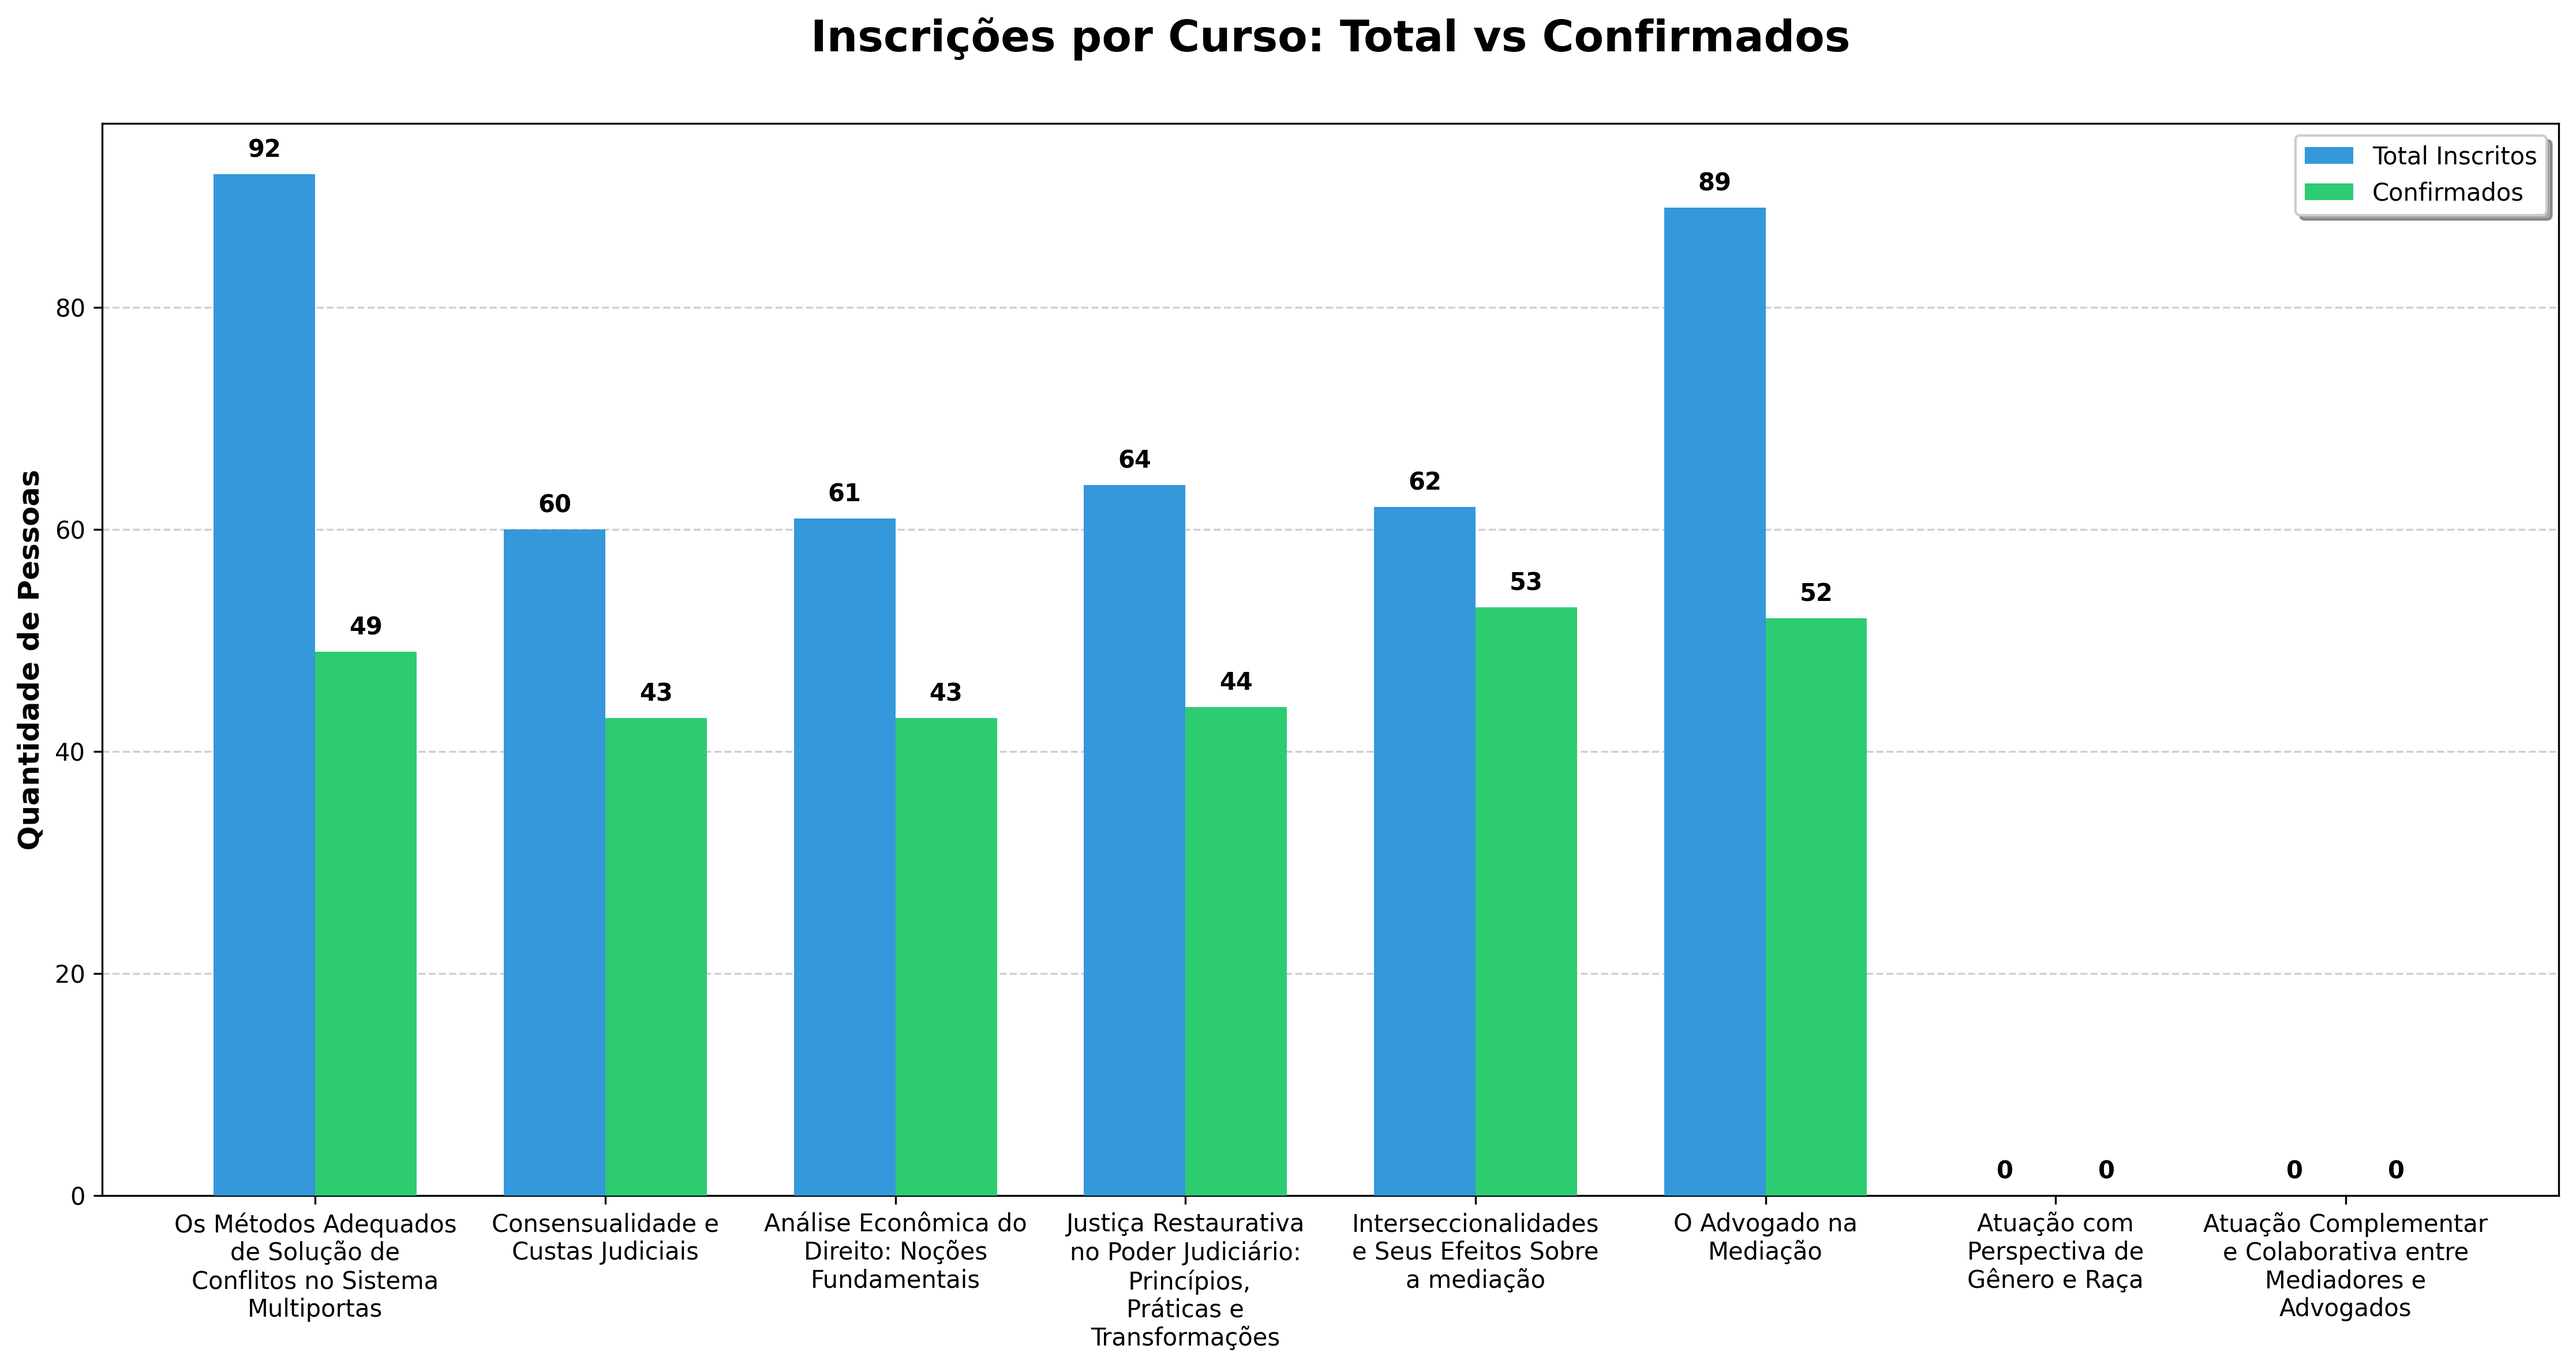
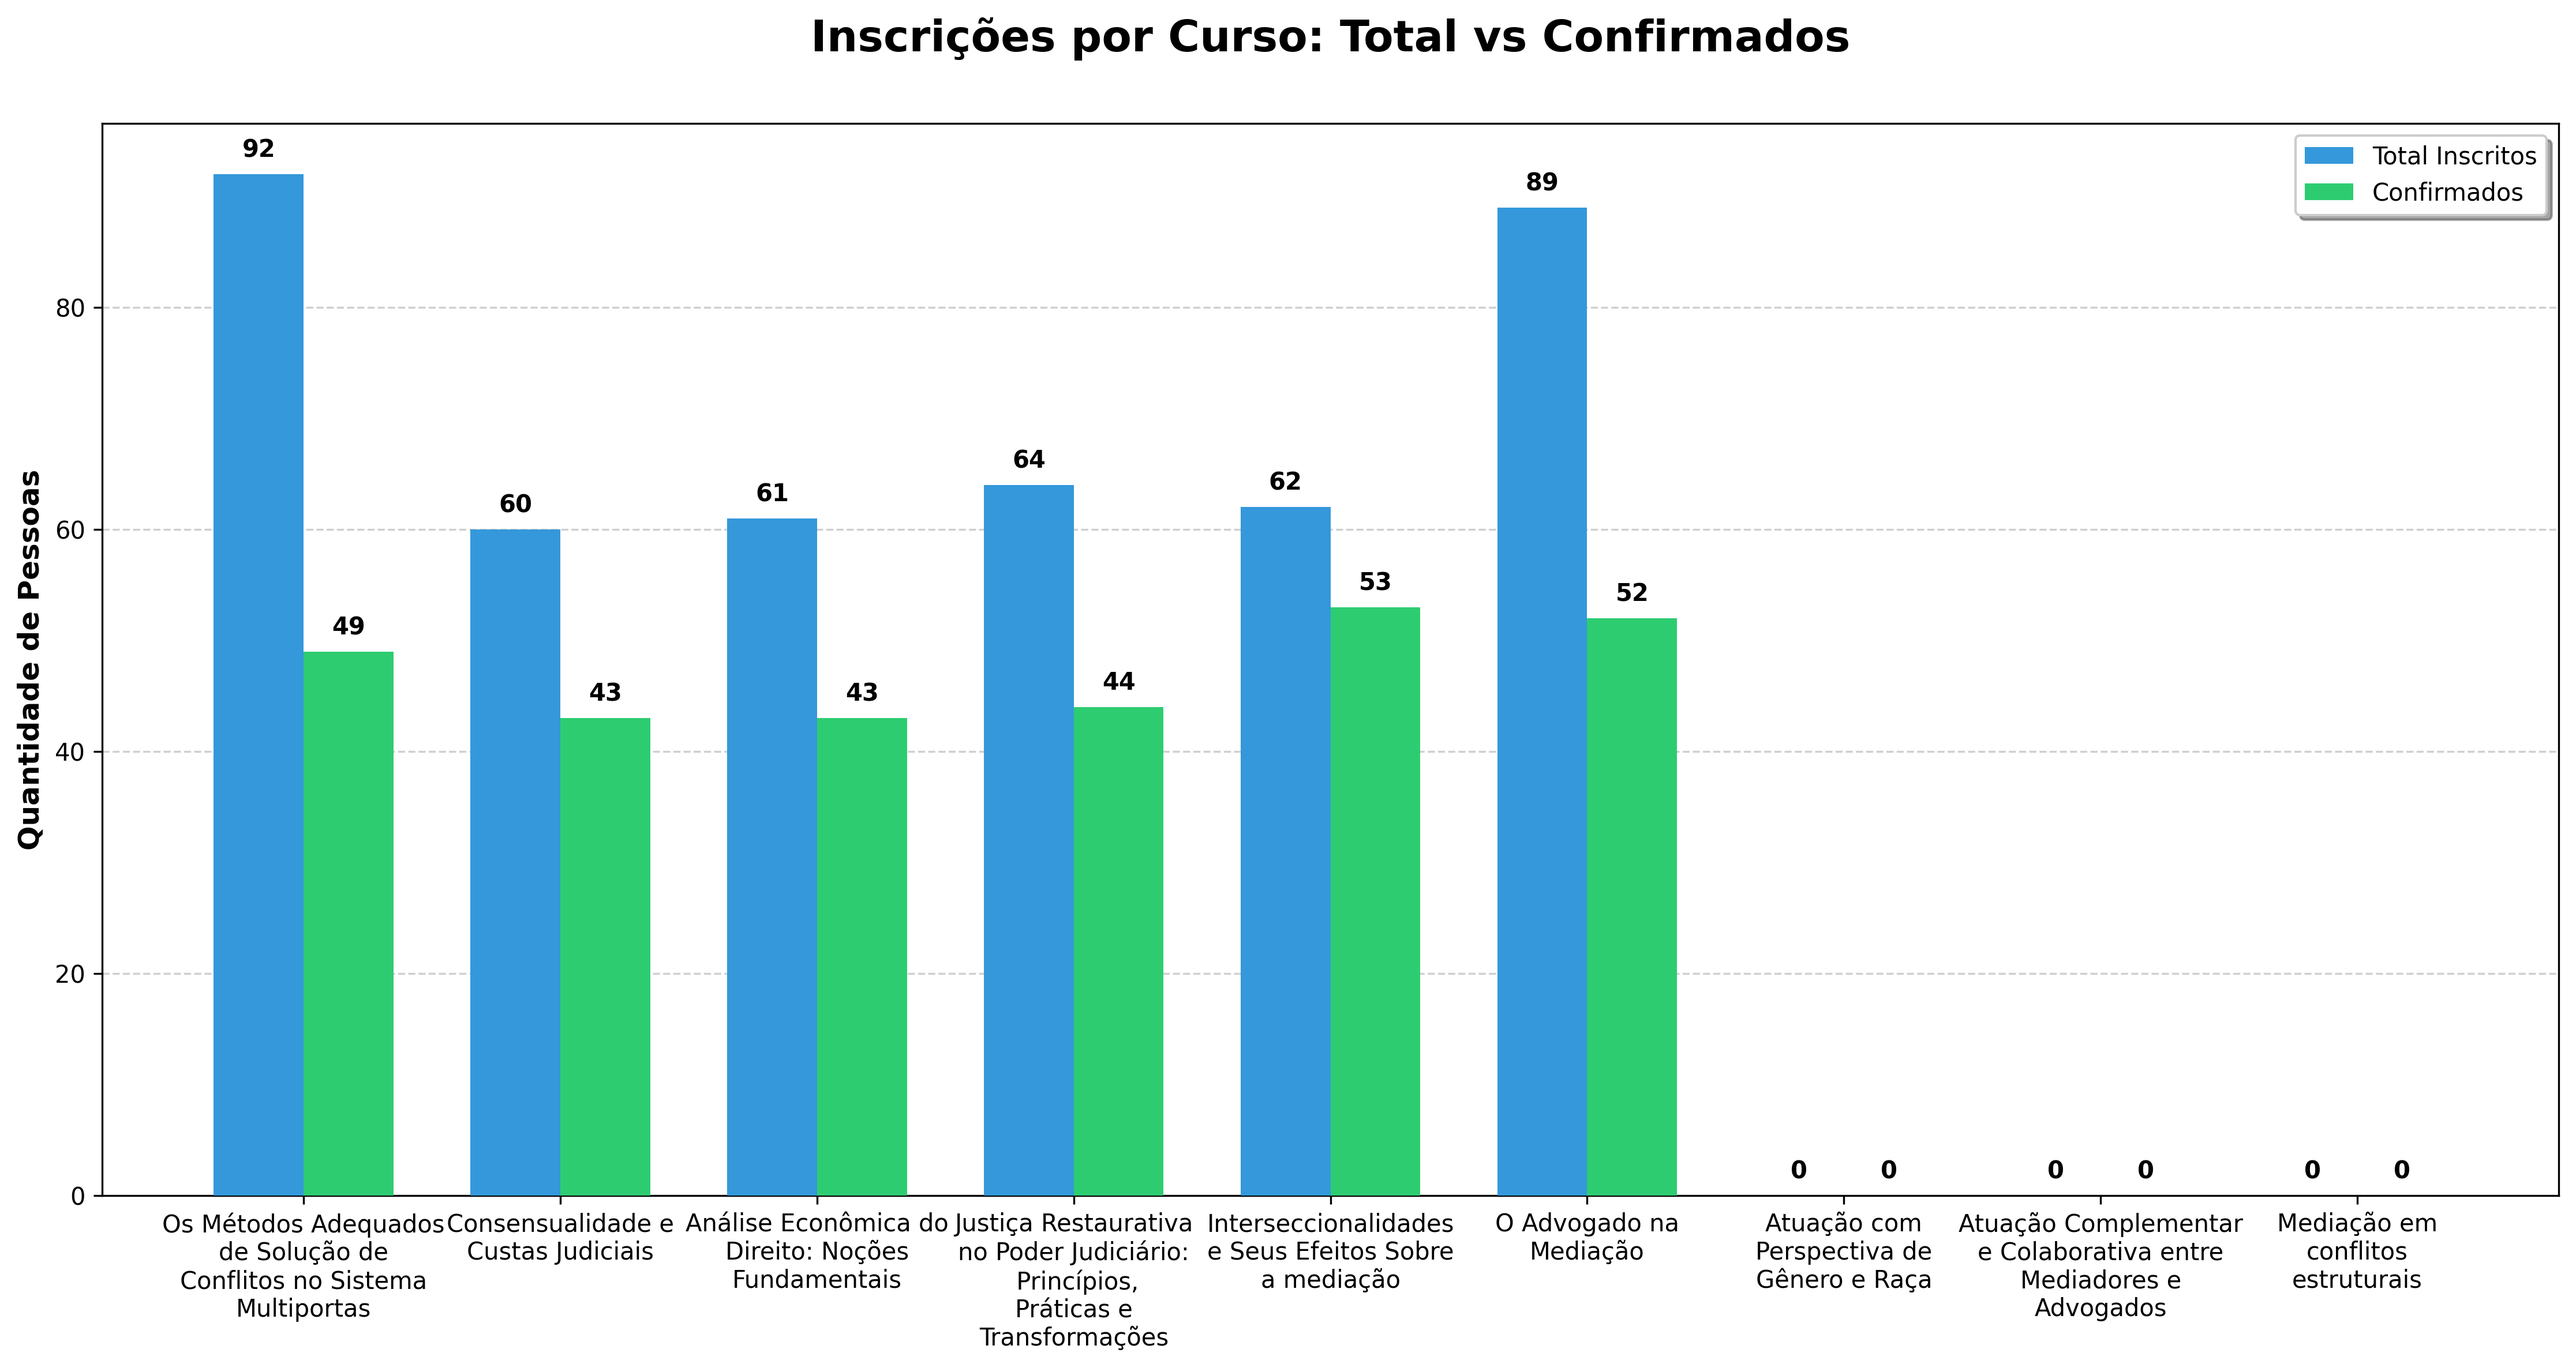
Atualização do codigo analise_inscricoes e dos outputs depois da insercao de mais um curso

Changed region(s): [[0.0623, 0.0936, 0.9653, 0.9983]]

diff --git a/scripts/analise_inscricoes.py b/scripts/analise_inscricoes.py
@@ -28,7 +28,7 @@ df_dados['data'] = pd.to_datetime(df_dados['data'])
 df_final = pd.merge(df_dados, df_referencia, on='id', how='left')
 
 # ADICIONADO O 'E1' NA LISTA ABAIXO:
-ids_para_grafico = ['C7', 'C8', 'E1'] 
+ids_para_grafico = ['C7', 'C8', 'E1', 'C9'] 
 
 df_filtrado = df_final[df_final['id'].isin(ids_para_grafico)].sort_values('data')
 
